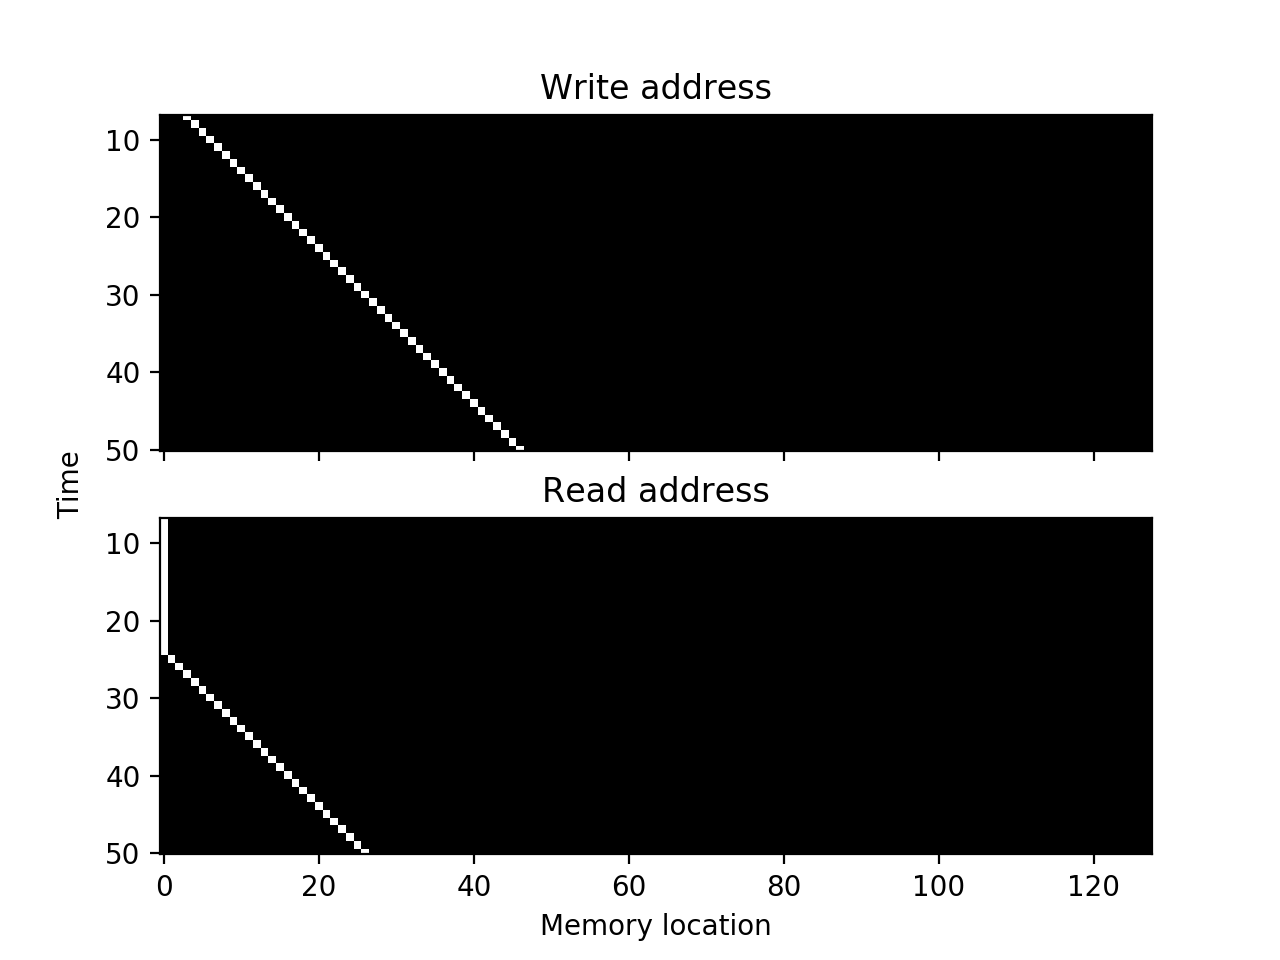
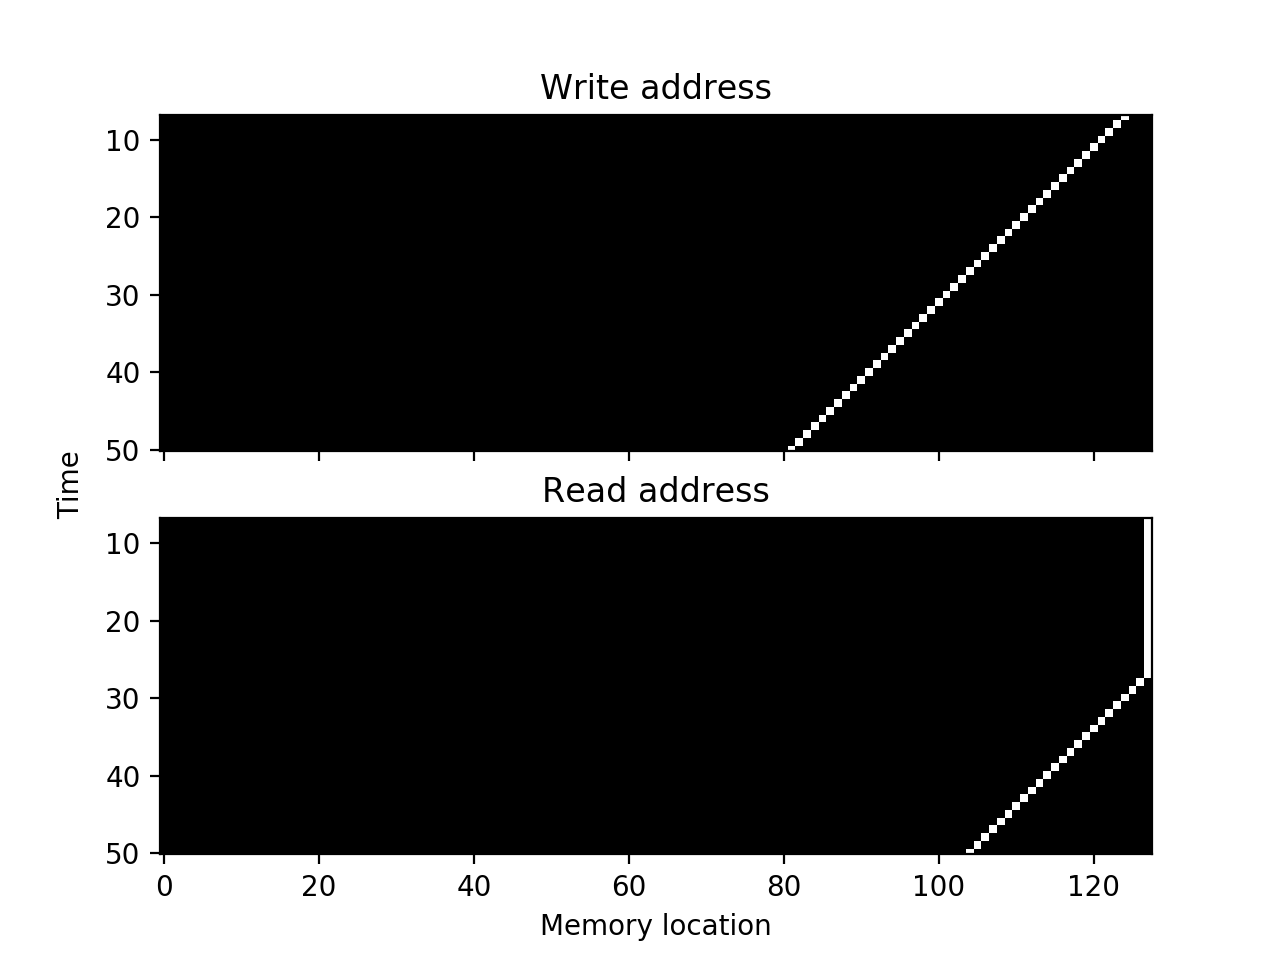
Update to README

diff --git a/README.md b/README.md
@@ -24,11 +24,11 @@ It seems worth recording some of the decisions that led to the current version o
 
 - **Version 2** (snapshot `18-3-2017`). This version implemented sharpening, added initial and terminal symbols, fixed the nonlinearities on the add and erase vectors (which were softmax before!), fixed a bug in the calculation of the cross-entropy which led to `NaN`s. These changes were only implemented for the NTM. These changes led to the model both converging to low error and actually using multiple memory locations (one typical run is captured in `doc/work-v2.html`). However, the failure to generalise persists.
 
-- **Version 3** (snapshot `19-3-2017`). Implemented training on sequences of varying length (the length is constant within a batch) by [masking the cross-entropy](https://danijar.com/variable-sequence-lengths-in-tensorflow/). Preliminary experiments suggest that this leads to both convergence *and* very good generalisation of the NTM on the Copy task. The memory focus is sharp and we see read and write address patterns similar to those in the NTM paper. Some example runs are `doc/work-v3-1.html, doc/work-v3-2.html`. Here is the write and read address over one run:
+- **Version 3** (snapshot `19-3-2017`). Implemented training on sequences of varying length (the length is constant within a batch) by [masking the cross-entropy](https://danijar.com/variable-sequence-lengths-in-tensorflow/). Preliminary experiments suggest that this leads to both convergence *and* very good generalisation of the NTM on the Copy task. The memory focus is sharp and we see read and write address patterns similar to those in the NTM paper. Some example runs are `doc/work-v3-1.html, doc/work-v3-2.html, doc/work-v3-3.html`. The read and write address over the course of the input/output of one sequence from `doc/work-v3-3.html` is shown here:
 
 ![NTM memory usage](./NTMmem.png)
 
-This was generated with the hyperparameters `N = 30` (so sequences of length `30`), `num_classes = 10` (so there are `8` content symbols plus the initial and terminal symbols), `epoch = 100`, with a controller state size `100`, memory address space of dimension `128` and content space of dimension `20`. The generalisation to sequences of length `N = 35` was *perfect* (i.e. all `0.0`). Moreover these properties are all "statistically" robust, in the sense that almost every time we train the network with these hyperparameters, the results are this good.
+The horizontal axis is the position in memory, the vertical axis is the time. This was generated with the hyperparameters `N = 30` (so sequences of length `30`), `num_classes = 10` (so there are `8` content symbols plus the initial and terminal symbols), `epoch = 100`, with a controller state size `100`, memory address space of dimension `128` and content space of dimension `20`. The generalisation to sequences of length `N = 60` was *perfect* (i.e. all `0.0`). Moreover these properties are all "statistically" robust, in the sense that almost every time we train the network with these hyperparameters, the results are this good.
 
 ## TODOs
 
